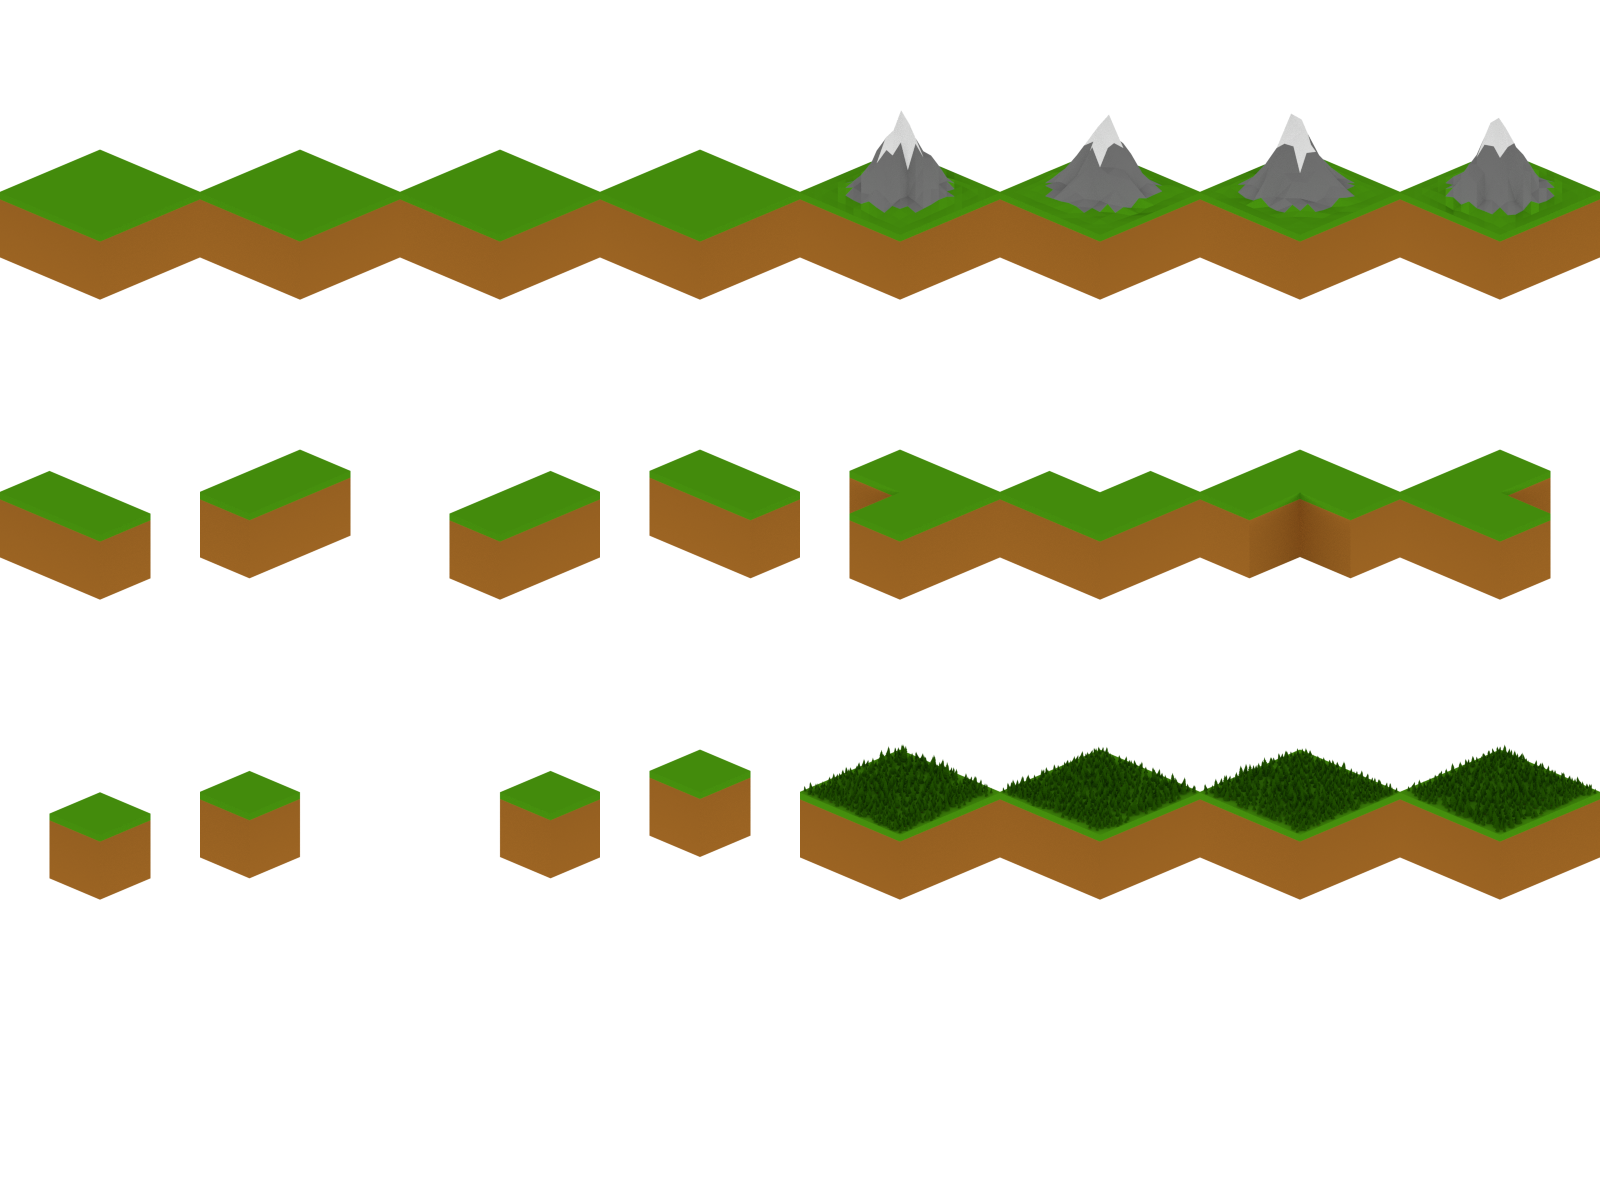
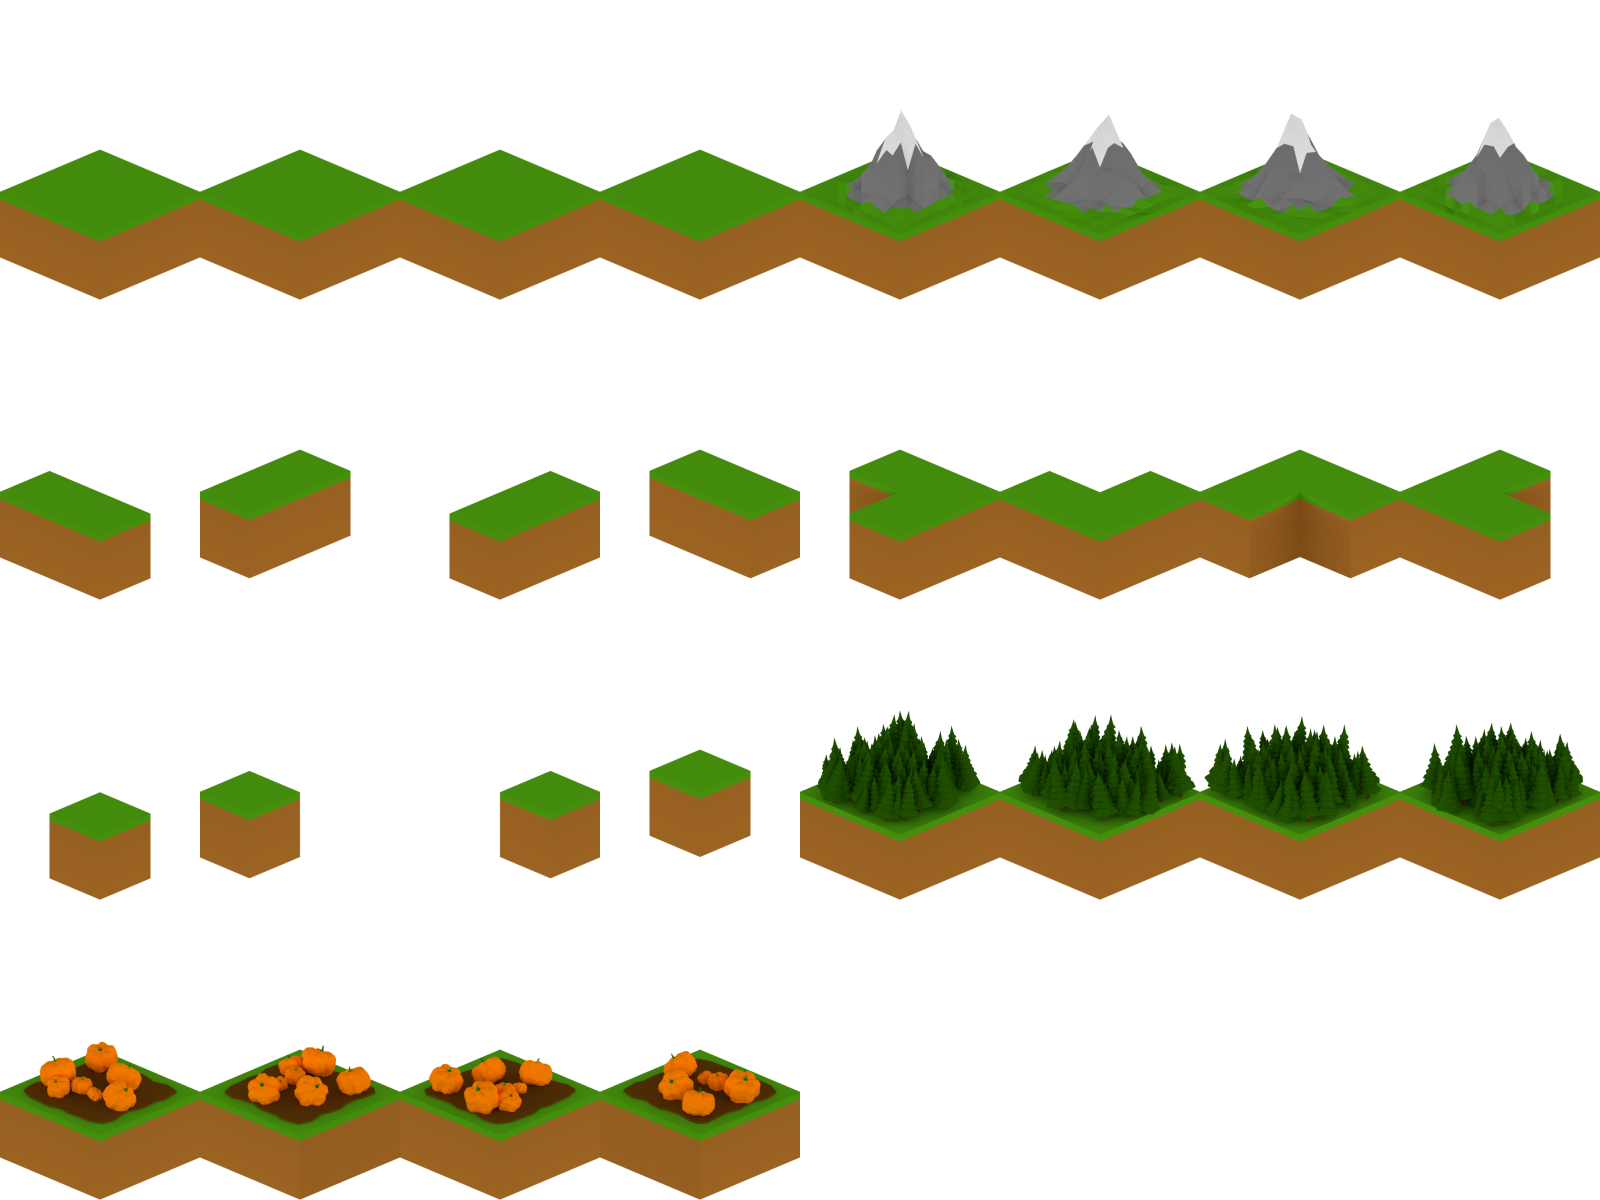
+Feature: added new graphics; removed old non sprite tiles; changes json format for sprites

Changed region(s): [[0.0, 0.8633, 0.5, 1.0], [0.5, 0.5858, 1.0, 0.7092]]

diff --git a/Frontend/js/components/map_tile.vue b/Frontend/js/components/map_tile.vue
@@ -13,8 +13,9 @@
         <div  
             v-bind:style="{
                 zIndex: tile.position.x - tile.position.y,
-                backgroundPositionX: - imgPos.x + 'px',
-                backgroundPositionY: - imgPos.y + 'px',
+                /* ATTENTION: x and y are swapped */
+                backgroundPositionX: - imgPos.y + 'px',
+                backgroundPositionY: - imgPos.x + 'px',
             }"
             class="tileimg"
         >
@@ -58,40 +59,41 @@
                 })
                 .then(response => { 
                     var entry;
+
                     switch (this.tile.type)
                     {
                         case "GrassTile":
-                            entry = response.data.filter(obj => obj.name == "grasstile_" + this.tile.orientation[0] + ".png")[0]
-                            this.imgPos = {y: entry.x, x: entry.y}
+                            entry = response.data.filter(obj => obj.name == "grasstile_" + this.tile.orientation[0] + ".png")[0];
                             break;
                         case "MountainTile":
-                            entry = response.data.filter(obj => obj.name == "mountaintile_" + this.tile.orientation[0] + ".png")[0]
-                            this.imgPos = {y: entry.x, x: entry.y}
+                            entry = response.data.filter(obj => obj.name == "mountaintile_" + this.tile.orientation[0] + ".png")[0];
                             break;
                         case "ForestTile":
-                            entry = response.data.filter(obj => obj.name == "foresttile_" + this.tile.orientation[0] + ".png")[0]
-                            this.imgPos = {y: entry.x, x: entry.y}
+                            entry = response.data.filter(obj => obj.name == "foresttile_" + this.tile.orientation[0] + ".png")[0];
+                            break;
+                        case "PumpkinResourceTile":
+                            entry = response.data.filter(obj => obj.name == "pumpkinresourcetile_" + this.tile.orientation[0] + ".png")[0];
                             break;
 
                         case "QuarterEdgeTile":
-                            entry = response.data.filter(obj => obj.name == "quarteredgetile_" + this.tile.orientation[0] + ".png")[0]
-                            this.imgPos = {y: entry.x, x: entry.y}
+                            entry = response.data.filter(obj => obj.name == "quarteredgetile_" + this.tile.orientation[0] + ".png")[0];
                             break;
                         case "HalfEdgeTile":
-                            entry = response.data.filter(obj => obj.name == "halfedgetile_" + this.tile.orientation[0] + ".png")[0]
-                            this.imgPos = {y: entry.x, x: entry.y}
+                            entry = response.data.filter(obj => obj.name == "halfedgetile_" + this.tile.orientation[0] + ".png")[0];
                             break;
                         case "TriQuarterEdgeTile":
-                            entry = response.data.filter(obj => obj.name == "triquarteredgetile_" + this.tile.orientation[0] + ".png")[0]
-                            this.imgPos = {y: entry.x, x: entry.y}
+                            entry = response.data.filter(obj => obj.name == "triquarteredgetile_" + this.tile.orientation[0] + ".png")[0];
                             break;
 
                         default:
-                            this.imgPos = {x: 600, y: 600}
+                            this.imgPos = {x: 600, y: 600};
                     }
-
+                    
+                    this.imgPos = entry.pos;
                 })
-                .catch(error => this.$store.commit('ReqestErr'));
+                .catch(error => {
+                    this.$store.commit('ReqestErr')
+                });
         },
     }
 
